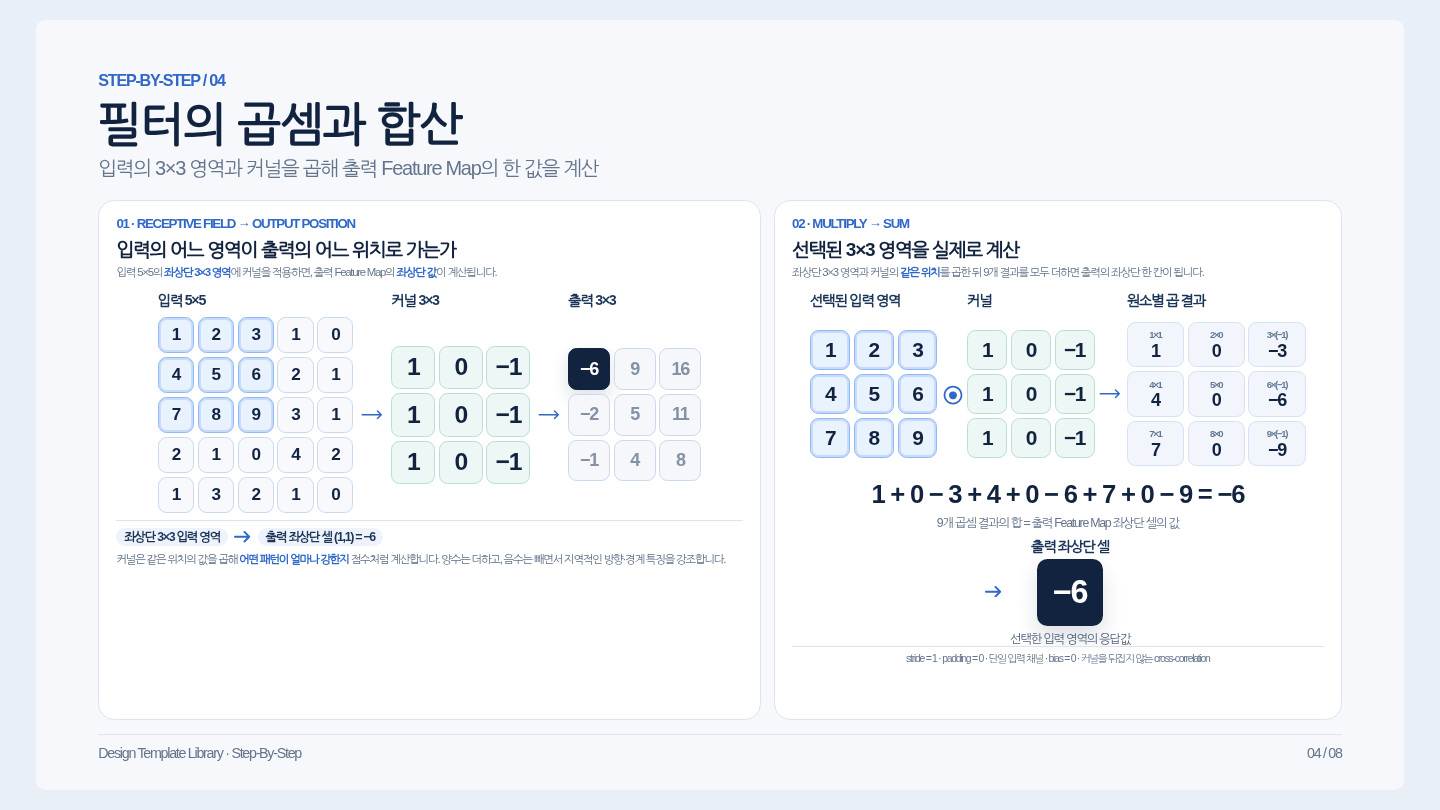
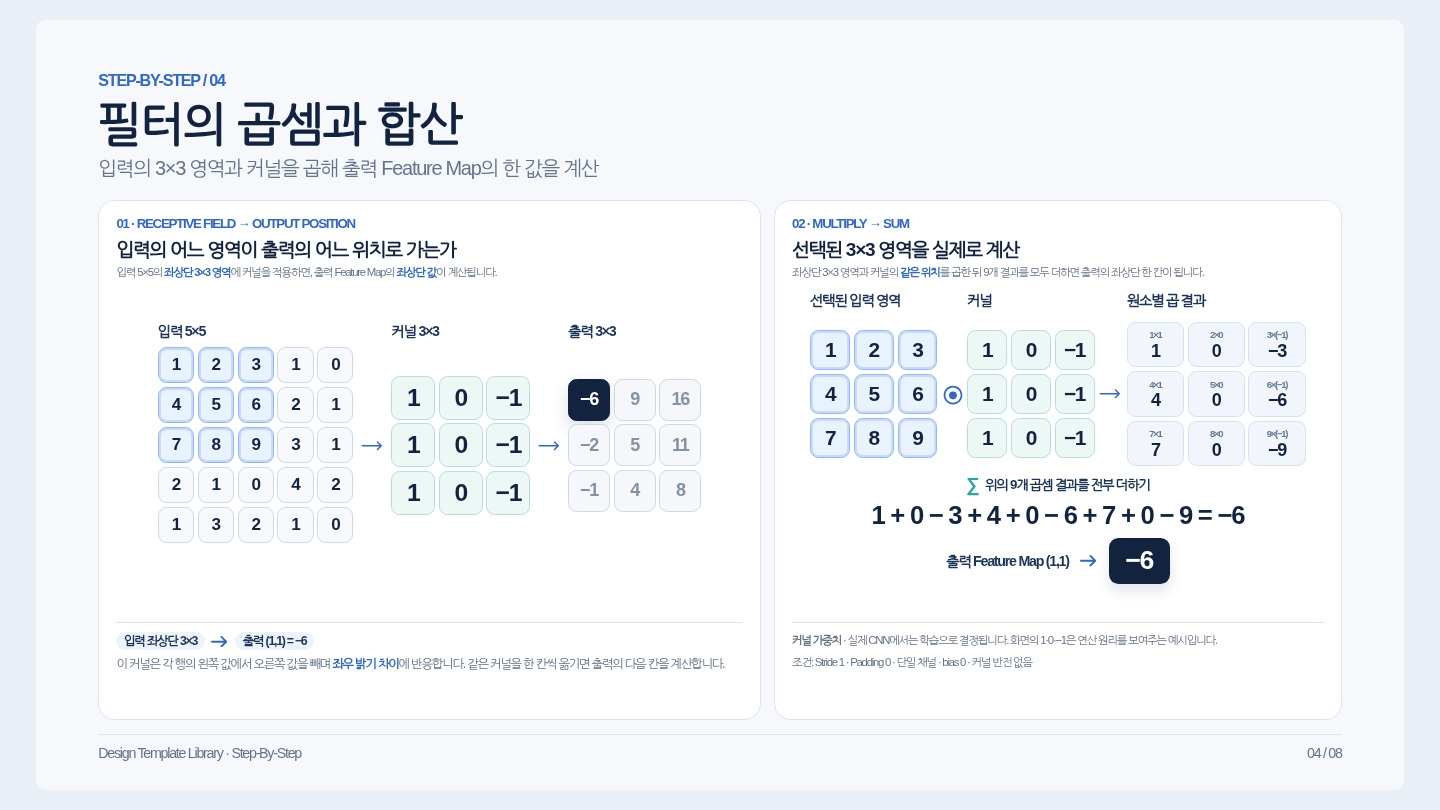
refine(step-by-step): align card dividers and clarify sum of products

diff --git a/templates/html/step-by-step.html b/templates/html/step-by-step.html
@@ -43,21 +43,25 @@
 .step-by-step-slide .calc-operator { min-width:16px; text-align:center; color:var(--blue); font-size:24px; font-weight:800; line-height:1; }
 .step-by-step-slide .calc-arrow { width:24px; height:12px; flex-shrink:0; overflow:visible; }
 .step-by-step-slide .calc-arrow path { fill:none; stroke:var(--blue); stroke-width:2.3; stroke-linecap:round; stroke-linejoin:round; }
-.step-by-step-slide .mapping-summary { display:flex; justify-content:flex-start; align-items:center; gap:7px; min-height:0; border-top:1px solid var(--border); padding-top:8px; color:#52647d; font-size:13px; text-align:left; }
+.step-by-step-slide .mapping-summary { display:flex; justify-content:flex-start; align-items:center; gap:7px; min-height:0; padding-top:0; color:#52647d; font-size:13px; text-align:left; }
 .step-by-step-slide .mapping-pill { display:inline-flex; align-items:center; justify-content:center; padding:2px 8px; border-radius:999px; background:#eef3fb; color:var(--deep); font-weight:760; }
-.step-by-step-slide .calc-why { margin-top:6px; color:#5f7088; font-size:12px; line-height:1.35; }
+.step-by-step-slide .calc-why { margin:6px 0 0; color:#5f7088; font-size:13px; line-height:1.42; }
 .step-by-step-slide .calc-arrow-inline { width:18px; height:12px; }
 .step-by-step-slide .calc-arrow-inline path { fill:none; stroke:var(--blue); stroke-width:2; stroke-linecap:round; stroke-linejoin:round; }
-.step-by-step-slide .calc-sum-area { display:flex; flex-direction:column; align-items:center; justify-content:center; gap:8px; margin:2px 0 0; padding:0; }
+.step-by-step-slide .calc-sum-area { display:flex; flex-direction:column; align-items:center; justify-content:center; gap:5px; margin:0; padding:0; }
 .step-by-step-slide .calc-equation { font-size:27px; font-weight:800; letter-spacing:-1pt; color:var(--navy); text-align:center; white-space:nowrap; font-variant-numeric:tabular-nums; }
 .step-by-step-slide .calc-equation-sub { font-size:13px; color:var(--muted); text-align:center; }
-.step-by-step-slide .calc-output-row { display:flex; align-items:center; justify-content:center; gap:8px; }
-.step-by-step-slide .calc-output-wrap { display:flex; flex-direction:column; align-items:center; gap:6px; }
+.step-by-step-slide .calc-output-row { display:flex; align-items:center; justify-content:center; gap:12px; margin-top:3px; }
+.step-by-step-slide .calc-output-wrap { display:flex; flex-direction:row; align-items:center; gap:12px; }
 .step-by-step-slide .calc-output-label { font-size:15px; color:var(--deep); font-weight:800; }
-.step-by-step-slide .calc-output { width:70px; height:70px; display:grid; place-items:center; border-radius:11px; color:#fff; background:var(--navy); font-size:34px; font-weight:850; font-variant-numeric:tabular-nums; box-shadow:0 12px 22px rgba(18,35,63,.14); }
+.step-by-step-slide .calc-output { width:64px; height:48px; display:grid; place-items:center; border-radius:10px; color:#fff; background:var(--navy); font-size:28px; font-weight:850; font-variant-numeric:tabular-nums; box-shadow:0 7px 14px rgba(18,35,63,.12); }
 .step-by-step-slide .calc-output-caption { font-size:13px; color:#52647d; text-align:center; }
-.step-by-step-slide .calc-method-note { border-top:1px solid var(--border); padding-top:6px; min-height:0; font-size:11px; color:#64748b; line-height:1.35; text-align:center; }
+.step-by-step-slide .calc-method-note { margin:0; font-size:12px; color:#64748b; line-height:1.5; text-align:left; }
 .step-by-step-slide .em { color:var(--blue); font-weight:780; }
+.step-by-step-slide .calc-footnote { margin-top:auto; flex:0 0 86px; height:86px; border-top:1px solid var(--border); padding-top:10px; display:flex; flex-direction:column; align-items:stretch; }
+.step-by-step-slide .calc-sum-intro { display:flex; align-items:center; justify-content:center; gap:7px; width:100%; margin:-3px 0 3px; color:var(--deep); font-size:14px; font-weight:750; }
+.step-by-step-slide .calc-sum-intro .sigma { color:var(--teal); font-size:20px; font-weight:900; line-height:1; }
+.step-by-step-slide .calc-panel:first-child .calc-flow { margin:auto 0; }
 @media (max-width:900px) {
   .step-by-step-slide.reference-slide { zoom:1; width:100%; height:auto; aspect-ratio:auto; overflow:visible; }
   .step-by-step-slide .calc-layout { grid-template-columns:1fr; gap:16px; }
@@ -88,8 +92,11 @@
   .step-by-step-slide .calc-arrow { width:20px; height:13px; }
   .step-by-step-slide .mapping-summary { font-size:13px; gap:6px; flex-wrap:wrap; }
   .step-by-step-slide .calc-equation { font-size:22px; }
-  .step-by-step-slide .calc-output-row { flex-direction:column; gap:10px; }
-  .step-by-step-slide .calc-output { width:72px; height:72px; font-size:30px; }
+  .step-by-step-slide .calc-output-row { flex-direction:row; gap:10px; }
+  .step-by-step-slide .calc-footnote { height:auto; min-height:100px; flex:0 0 auto; margin-top:15px; padding-top:11px; }
+  .step-by-step-slide .calc-panel:first-child .calc-flow { margin:14px 0; }
+  .step-by-step-slide .calc-sum-intro { font-size:13px; }
+  .step-by-step-slide .calc-output { width:58px; height:46px; font-size:25px; }
   .step-by-step-slide .calc-method-note { font-size:13px; }
 }
 </style>
@@ -144,12 +151,14 @@
               </div>
             </div>
           </div>
-          <div class="mapping-summary">
-            <span class="mapping-pill">좌상단 3×3 입력 영역</span>
-            <svg class="calc-arrow-inline" viewBox="0 0 18 12" aria-hidden="true"><path d="M1 6 H16 M11 1 L16 6 L11 11"/></svg>
-            <span class="mapping-pill">출력 좌상단 셀 (1,1) = −6</span>
+          <div class="calc-footnote" aria-label="선택한 입력 영역과 출력 위치의 대응">
+            <div class="mapping-summary">
+              <span class="mapping-pill">입력 좌상단 3×3</span>
+              <svg class="calc-arrow-inline" viewBox="0 0 18 12" aria-hidden="true"><path d="M1 6 H16 M11 1 L16 6 L11 11"/></svg>
+              <span class="mapping-pill">출력 (1,1) = −6</span>
+            </div>
+            <p class="calc-why">이 커널은 각 행의 왼쪽 값에서 오른쪽 값을 빼며 <span class="em">좌우 밝기 차이</span>에 반응합니다. 같은 커널을 한 칸씩 옮기면 출력의 다음 칸을 계산합니다.</p>
           </div>
-          <p class="calc-why">커널은 같은 위치의 값을 곱해 <span class="em">어떤 패턴이 얼마나 강한지</span> 점수처럼 계산합니다. 양수는 더하고, 음수는 빼면서 지역적인 방향·경계 특징을 강조합니다.</p>
         </section>
         <section class="calc-panel" aria-label="두 번째 단계: 선택된 3×3 영역과 커널의 곱셈 및 합산">
           <div class="calc-step">02 · MULTIPLY → SUM</div>
@@ -196,18 +205,18 @@
             </div>
           </div>
           <div class="calc-sum-area">
-            <div class="calc-equation" aria-label="5 더하기 0 빼기 2 더하기 8 더하기 0 빼기 3 더하기 1 더하기 0 빼기 4는 5">1 + 0 − 3 + 4 + 0 − 6 + 7 + 0 − 9 = −6</div>
-            <div class="calc-equation-sub">9개 곱셈 결과의 합 = 출력 Feature Map 좌상단 셀의 값</div>
+            <div class="calc-sum-intro"><span class="sigma">∑</span><span>위의 9개 곱셈 결과를 전부 더하기</span></div>
+            <div class="calc-equation" aria-label="1 더하기 0 빼기 3 더하기 4 더하기 0 빼기 6 더하기 7 더하기 0 빼기 9는 마이너스 6">1 + 0 − 3 + 4 + 0 − 6 + 7 + 0 − 9 = −6</div>
             <div class="calc-output-row">
+              <span class="calc-output-label">출력 Feature Map (1,1)</span>
               <svg class="calc-arrow-inline" viewBox="0 0 18 12" aria-hidden="true"><path d="M1 6 H16 M11 1 L16 6 L11 11"/></svg>
-              <div class="calc-output-wrap">
-                <div class="calc-output-label">출력 좌상단 셀</div>
-                <div class="calc-output">−6</div>
-                <div class="calc-output-caption">선택한 입력 영역의 응답값</div>
-              </div>
+              <div class="calc-output">−6</div>
             </div>
           </div>
-          <div class="calc-method-note">stride = 1 · padding = 0 · 단일 입력 채널 · bias = 0 · 커널을 뒤집지 않는 cross-correlation</div>
+          <div class="calc-footnote" aria-label="계산 방식과 해석">
+            <p class="calc-method-note"><b>커널 가중치</b> · 실제 CNN에서는 학습으로 결정됩니다. 화면의 1·0·−1은 연산 원리를 보여주는 예시입니다.</p>
+            <p class="calc-method-note" style="margin-top:5px">조건: Stride 1 · Padding 0 · 단일 채널 · bias 0 · 커널 반전 없음</p>
+          </div>
         </section>
       </div>
     </div>

diff --git a/TEMPLATE_CATALOG.md b/TEMPLATE_CATALOG.md
@@ -22,7 +22,7 @@
 - **Concept**: 직관적인 하나의 개념과 Figure를 나란히 배치합니다.
 - **Process**: 실제 처리 순서와 화살표 방향이 일치해야 합니다.
 - **Comparison**: 동일한 질문·측정 조건으로 비교합니다.
-- **Step-by-step**: 입력 5×5 중 좌상단 3×3에 커널 3×3을 적용합니다. 같은 위치의 원소별 곱셈 결과 `[[1,0,-3],[4,0,-6],[7,0,-9]]`을 합산해 `−6`을 얻고, 출력 3×3의 좌상단 셀 `(1,1)`과 강조색으로 연결합니다. 입력·커널·출력 라벨은 한 높이에, 크기가 다른 행렬은 별도의 동일한 높이의 그림 영역에서 세로 중앙 정렬합니다. `stride=1`, `padding=0`, 단일 채널, `bias=0` 및 커널 반전 없는 cross-correlation 조건을 명시하고 모든 출력 3×3 값을 검산합니다.
+- **Step-by-step**: 입력 5×5 중 좌상단 3×3에 커널 3×3을 적용합니다. 같은 위치의 원소별 곱셈 결과 `[[1,0,-3],[4,0,-6],[7,0,-9]]`을 합산해 `−6`을 얻고, 출력 3×3의 좌상단 셀 `(1,1)`과 강조색으로 연결합니다. 입력·커널·출력 라벨은 한 높이에, 크기가 다른 행렬은 별도의 동일한 높이의 그림 영역에서 세로 중앙 정렬합니다. 좌우 카드 하단 설명을 같은 높이·같은 크기의 Footer 영역에 배치해 구분선 y좌표를 통일합니다. 오른쪽에는 `Σ = 9개 원소별 곱 결과를 전부 합산`하는 개념을 계산식 바로 앞에 표시하고, 중복 출력 설명 대신 커널 숫자는 학습되는 가중치이며 현재 값은 예제라는 점을 명시합니다. `stride=1`, `padding=0`, 단일 채널, `bias=0` 및 커널 반전 없는 cross-correlation 조건을 명시하고 모든 출력 3×3 값을 검산합니다.
 - **Interactive**: 조작할 수 있는 변수와 화면에 표시하는 계산이 일치해야 합니다. 계산 예시는 정적 이미지로 대체하지 않습니다.
 - **Architecture**: 각 텐서의 H/W/C와 stride·padding 관계를 확인합니다.
 - **Experiment**: 12건의 혼동행렬(TN=5, FP=1, FN=2, TP=4)과 파생 지표의 수치가 일치해야 합니다.
